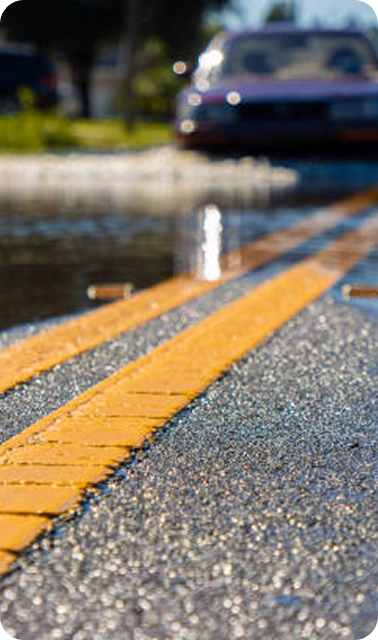
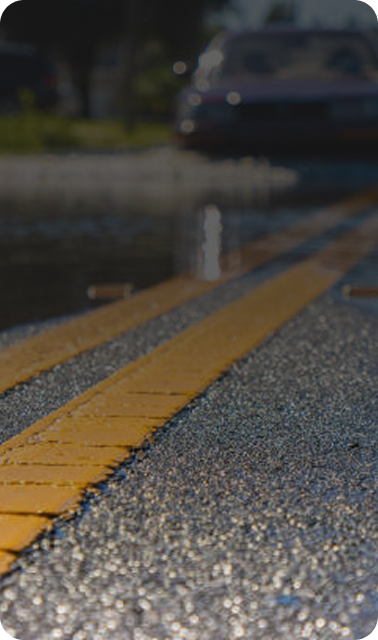
feat: implement carousel logic

diff --git a/index.html b/index.html
@@ -1,102 +1,187 @@
 <!DOCTYPE html>
 <html lang="pt-br">
+  <head>
+    <meta charset="UTF-8" />
+    <meta name="viewport" content="width=device-width, initial-scale=1.0" />
+    <title>Hydro Guard</title>
 
-<head>
-  <meta charset="UTF-8" />
-  <meta name="viewport" content="width=device-width, initial-scale=1.0" />
-  <title>Hydro Guard</title>
+    <link
+      rel="shortcut icon"
+      href="assets/img/logo_icon.png"
+      type="image/x-icon"
+    />
+    <link rel="stylesheet" href="assets/style.css" />
+  </head>
 
-  <link rel="shortcut icon" href="assets/img/logo_icon.png" type="image/x-icon" />
-  <link rel="stylesheet" href="assets/style.css" />
-</head>
-
-<body>
-  <div class="bg-fixed"></div>
-  <main>
-    <header>
-      <div class="navbar">
-        <img src="assets/img/logo.png" alt="Logo Hyrdro Guard" class="header-logo" />
-        <nav>
-          <ul>
-            <li>Home</li>
-            <li>Enchentes</li>
-            <li>HydroAlerta+</li>
-            <li>Propósito</li>
-            <li>Impacto</li>
-            <li>Benefícios</li>
-          </ul>
-        </nav>
-        <div class="header-profile">
-          <div class="header-social-media-icons">
-            <img src="assets/img/home/instagram_icon.svg" alt="Instagram icon" />
-            <img src="assets/img/home/facebook_icon.svg" alt="Facabook icon" />
-            <img src="assets/img/home/youtube_icon.svg" alt="Youtube icon" />
-          </div>
-          <img src="assets/img/home/user_icon.svg" alt="User icon" />
-        </div>
-      </div>
-    </header>
-    <section class="home-section">
-      <div class="home-content">
-        <h1>Proteja-se dos perigos das enchentes</h1>
-        <p>
-          Nosso aplicativo centraliza informações em tempo real sobre
-          enchentes e atua como canal de comunicação direta entre a Defesa
-          Civil e a população.
-        </p>
-        <div class="app-buttons">
-          <div class="app-button">
-            <img src="assets/img/home/apple_icon.png" alt="Ícone da Apple Store" />
-            <span> Download na App Store </span>
-          </div>
-          <div class="app-button">
-            <img src="assets/img/home/google_play_icon.png" alt="Ícone da Google Play" />
-            <span> Download na Google Play </span>
+  <body>
+    <div class="bg-fixed"></div>
+    <main>
+      <header>
+        <div class="navbar">
+          <img
+            src="assets/img/logo.png"
+            alt="Logo Hyrdro Guard"
+            class="header-logo"
+          />
+          <nav>
+            <ul>
+              <li>Home</li>
+              <li>Enchentes</li>
+              <li>HydroAlerta+</li>
+              <li>Propósito</li>
+              <li>Impacto</li>
+              <li>Benefícios</li>
+            </ul>
+          </nav>
+          <div class="header-profile">
+            <div class="header-social-media-icons">
+              <img
+                src="assets/img/home/instagram_icon.svg"
+                alt="Instagram icon"
+              />
+              <img
+                src="assets/img/home/facebook_icon.svg"
+                alt="Facabook icon"
+              />
+              <img src="assets/img/home/youtube_icon.svg" alt="Youtube icon" />
+            </div>
+            <img src="assets/img/home/user_icon.svg" alt="User icon" />
           </div>
         </div>
-      </div>
-      <img src="assets/img/home/app_mockup.png" alt="App Mockup" class="home-app-mockup" />
-    </section>
-    <section class="floods-section">
-      <h2>Enchentes: O que está em jogo?</h2>
-      <div class="floods-section-content">
-        <div class="floods-carousel">
+      </header>
+      <section class="home-section">
+        <div class="home-content">
+          <h1>Proteja-se dos perigos das enchentes</h1>
+          <p>
+            Nosso aplicativo centraliza informações em tempo real sobre
+            enchentes e atua como canal de comunicação direta entre a Defesa
+            Civil e a população.
+          </p>
+          <div class="app-buttons">
+            <div class="app-button">
+              <img
+                src="assets/img/home/apple_icon.png"
+                alt="Ícone da Apple Store"
+              />
+              <span> Download na App Store </span>
+            </div>
+            <div class="app-button">
+              <img
+                src="assets/img/home/google_play_icon.png"
+                alt="Ícone da Google Play"
+              />
+              <span> Download na Google Play </span>
+            </div>
+          </div>
+        </div>
+        <img
+          src="assets/img/home/app_mockup.png"
+          alt="App Mockup"
+          class="home-app-mockup"
+        />
+      </section>
+      <section class="floods-section">
+        <h2>Enchentes: O que está em jogo?</h2>
+        <div class="floods-section-content">
           <div class="floods-carousel-card">
-            <h3>
-              Após enchente histórica, <br> Brasil continua sujeito a desastres
-            </h3>
+            <div
+              class="slide active"
+              style="
+                background-image: url('./assets/img/floods/carousel/carousel_1.png');
+              "
+            >
+              <div class="overlay top">
+                <h1>
+                  APÓS ENCHENTE HISTÓRICA,<br />BRASIL CONTINUA SUJEITO A
+                  DESASTRES
+                </h1>
+              </div>
+              <div class="overlay bottom">
+                <img
+                  src="./assets/img/floods/carousel/carousel_logo.png"
+                  alt="Logo"
+                  class="logo"
+                />
+                <span>Deutsche Welle</span>
+              </div>
+            </div>
+            <div
+              class="slide"
+              style="
+                background-image: url('./assets/img/floods/carousel/carousel_2.png');
+              "
+            >
+              <div class="overlay top">
+                <h1>
+                  APÓS ENCHENTE HISTÓRICA,<br />BRASIL CONTINUA SUJEITO A
+                  DESASTRES
+                </h1>
+              </div>
+              <div class="overlay bottom">
+                <img
+                  src="./assets/img/floods/carousel/carousel_logo.png"
+                  alt="Logo"
+                  class="logo"
+                />
+                <span>Deutsche Welle</span>
+              </div>
+            </div>
+            <div
+              class="slide"
+              style="
+                background-image: url('./assets/img/floods/carousel/carousel_3.png');
+              "
+            >
+              <div class="overlay top">
+                <h1>
+                  APÓS ENCHENTE HISTÓRICA,<br />BRASIL CONTINUA SUJEITO A
+                  DESASTRES
+                </h1>
+              </div>
+              <div class="overlay bottom">
+                <img
+                  src="./assets/img/floods/carousel/carousel_logo.png"
+                  alt="Logo"
+                  class="logo"
+                />
+                <span>Deutsche Welle</span>
+              </div>
+            </div>
+          </div>
+          <div class="floods-info-cards">
+            <div class="floods-vertical-info-card">
+              <h4>Informação que não chega</h4>
+              <p>
+                Milhares de brasileiros não têm acesso rápido e claro a
+                instruções de segurança, rotas de fuga ou abrigos. A comunicação
+                falha custa vidas.
+              </p>
+            </div>
+            <div class="floods-vertical-info-card">
+              <h4>Dependência de Prevenção</h4>
+              <p>
+                Apesar de enchentes serem previsíveis, à ausência de
+                planejamento urbano, sistemas de alerta e políticas públicas
+                eficazes agravam seus efeitos
+              </p>
+            </div>
+            <div class="floods-horizontal-info-card">
+              <p>
+                O <strong> HydroAlerta+ </strong> foi concebido para ser muito
+                mais do que um simples aplicativo: é um sistema de proteção
+                inteligente, criado para colocar a vida das pessoas em primeiro
+                lugar.
+              </p>
+              <img
+                src="assets/img/alerta+_icon.png"
+                alt="Ícone do HydroAlerta+"
+                class="floods-horizontal-info-icon"
+              />
+            </div>
           </div>
         </div>
-        <div class="floods-info-cards">
-          <div class="floods-vertical-info-card">
-            <h4>Informação que não chega</h4>
-            <p>
-              Milhares de brasileiros não têm acesso rápido e claro a
-              instruções de segurança, rotas de fuga ou abrigos. A comunicação
-              falha custa vidas.
-            </p>
-          </div>
-          <div class="floods-vertical-info-card">
-            <h4>Dependência de Prevenção</h4>
-            <p>
-              Apesar de enchentes serem previsíveis, à ausência de
-              planejamento urbano, sistemas de alerta e políticas públicas
-              eficazes agravam seus efeitos
-            </p>
-          </div>
-          <div class="floods-horizontal-info-card">
-            <p>
-              O <strong> HydroAlerta+ </strong> foi concebido para ser muito mais do que um
-              simples aplicativo: é um sistema de proteção inteligente, criado
-              para colocar a vida das pessoas em primeiro lugar.
-            </p>
-            <img src="assets/img/alerta+_icon.png" alt="Ícone do HydroAlerta+" class="floods-horizontal-info-icon" />
-          </div>
-        </div>
-      </div>
-    </section>
-  </main>
-</body>
-<script src="assets/script.js"></script>
-
+      </section>
+    </main>
+  </body>
+  <script src="assets/script.js"></script>
 </html>

diff --git a/assets/style.css b/assets/style.css
@@ -194,18 +194,21 @@ nav ul li:hover {
 }
 
 .floods-carousel-card {
-  height: 550px;
-  width: 340px;
+  width: 35rem;
+  height: 33.5rem;
   border-radius: 24px;
-  border-radius: 24px;
-  padding: 2rem;
-  color: var(--color-white);
-  background: linear-gradient(
-      0deg,
-      rgba(0, 0, 0, 0) 0%,
-      rgba(30, 30, 30, 0.7) 52.88%
-    ),
-    url(img/floods/carousel/carousel_1.png) lightgray 50% / cover no-repeat;
+  overflow: hidden;
+  position: relative;
+}
+
+.floods-carousel-card .slide {
+  position: absolute;
+  width: 100%;
+  height: 100%;
+  background-size: cover;
+  background-position: center;
+  opacity: 0;
+  transition: opacity 1s ease-in-out;
 }
 
 .floods-carousel-card h3 {
@@ -288,10 +291,72 @@ nav ul li:hover {
   bottom: -50;
 }
 
+.slide.active {
+  opacity: 1;
+  z-index: 1;
+}
+
+.overlay {
+  position: absolute;
+  width: 100%;
+  padding: 20px;
+  color: white;
+  z-index: 2;
+}
+
+.overlay h1 {
+  font-family: var(--font-primary);
+  font-weight: 600;
+  font-style: normal;
+  text-transform: uppercase;
+}
+
+.overlay.top {
+  top: 0;
+}
+
+.overlay.bottom {
+  bottom: 0;
+  display: flex;
+  align-items: center;
+  justify-content: flex-end;
+  gap: 0.625rem;
+  padding: 2rem;
+  box-sizing: border-box;
+}
+
+.logo {
+  height: 20px;
+}
+
 /*  MEDIA QUERY  */
 
 @media (min-width: 1500px) {
   .bg-fixed {
     width: 33.5vw;
+  }
+}
+
+@media (max-width: 360px) {
+  .floods-carousel-card {
+    width: 320px;
+    height: 342px;
+  }
+
+  .overlay.top h1 {
+    top: 0;
+    padding: 0.75rem;
+    box-sizing: border-box;
+    width: 100%;
+    max-height: 60%;
+    overflow: hidden;
+  }
+
+  .logo {
+    height: 16px;
+  }
+
+  .overlay.bottom span {
+    font-size: 14px;
   }
 }

diff --git a/assets/script.js b/assets/script.js
@@ -1,0 +1,12 @@
+// Carousel functionality for the floods section
+
+let index = 0;
+const slides = document.querySelectorAll(".slide");
+
+setInterval(() => {
+  slides[index].classList.remove("active");
+
+  index = (index + 1) % slides.length;
+
+  slides[index].classList.add("active");
+}, 4000);
